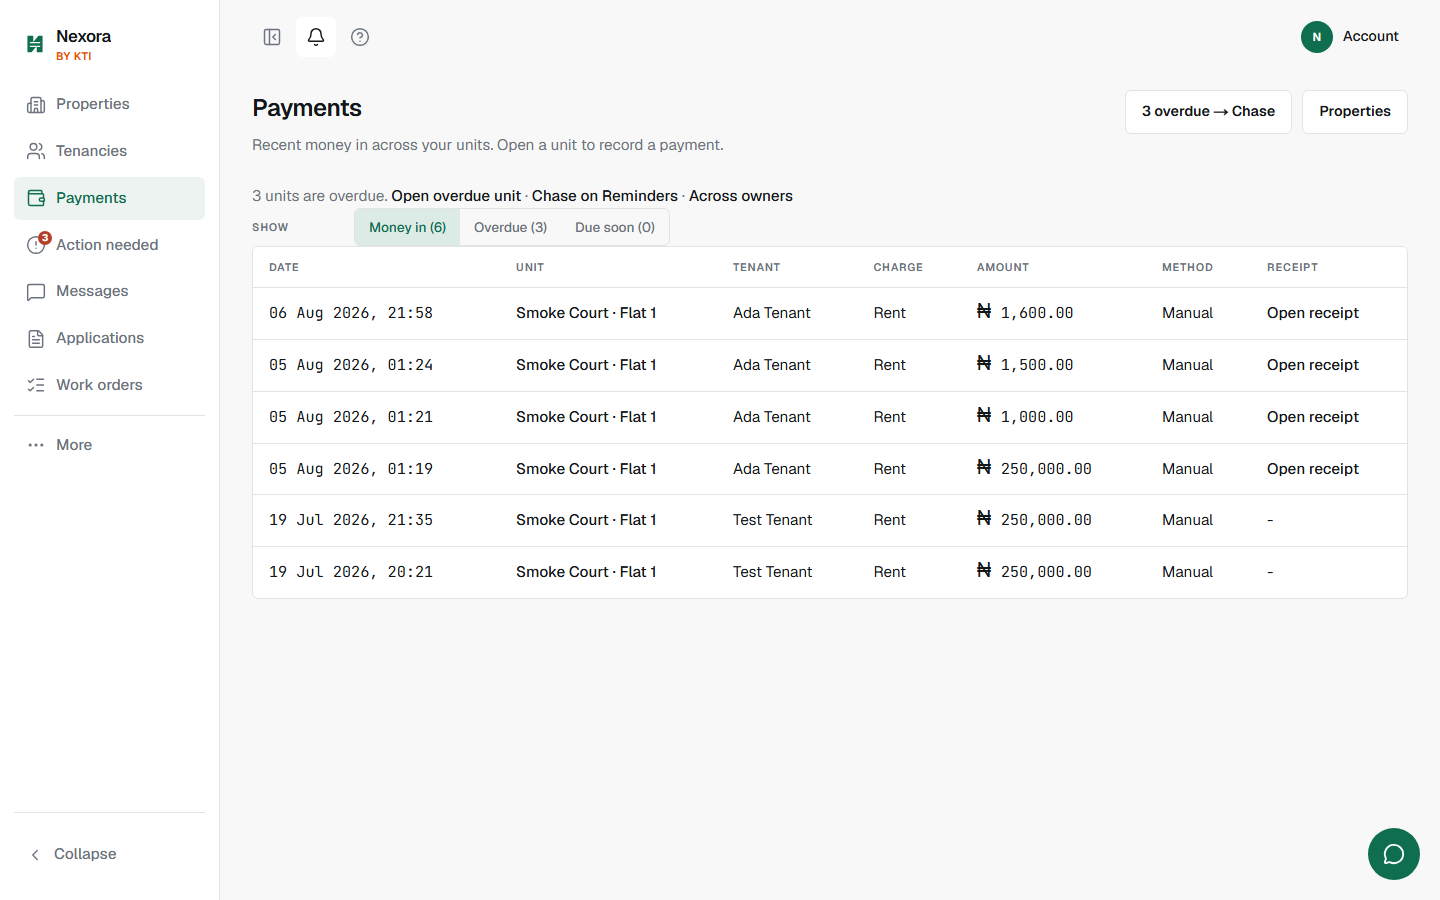
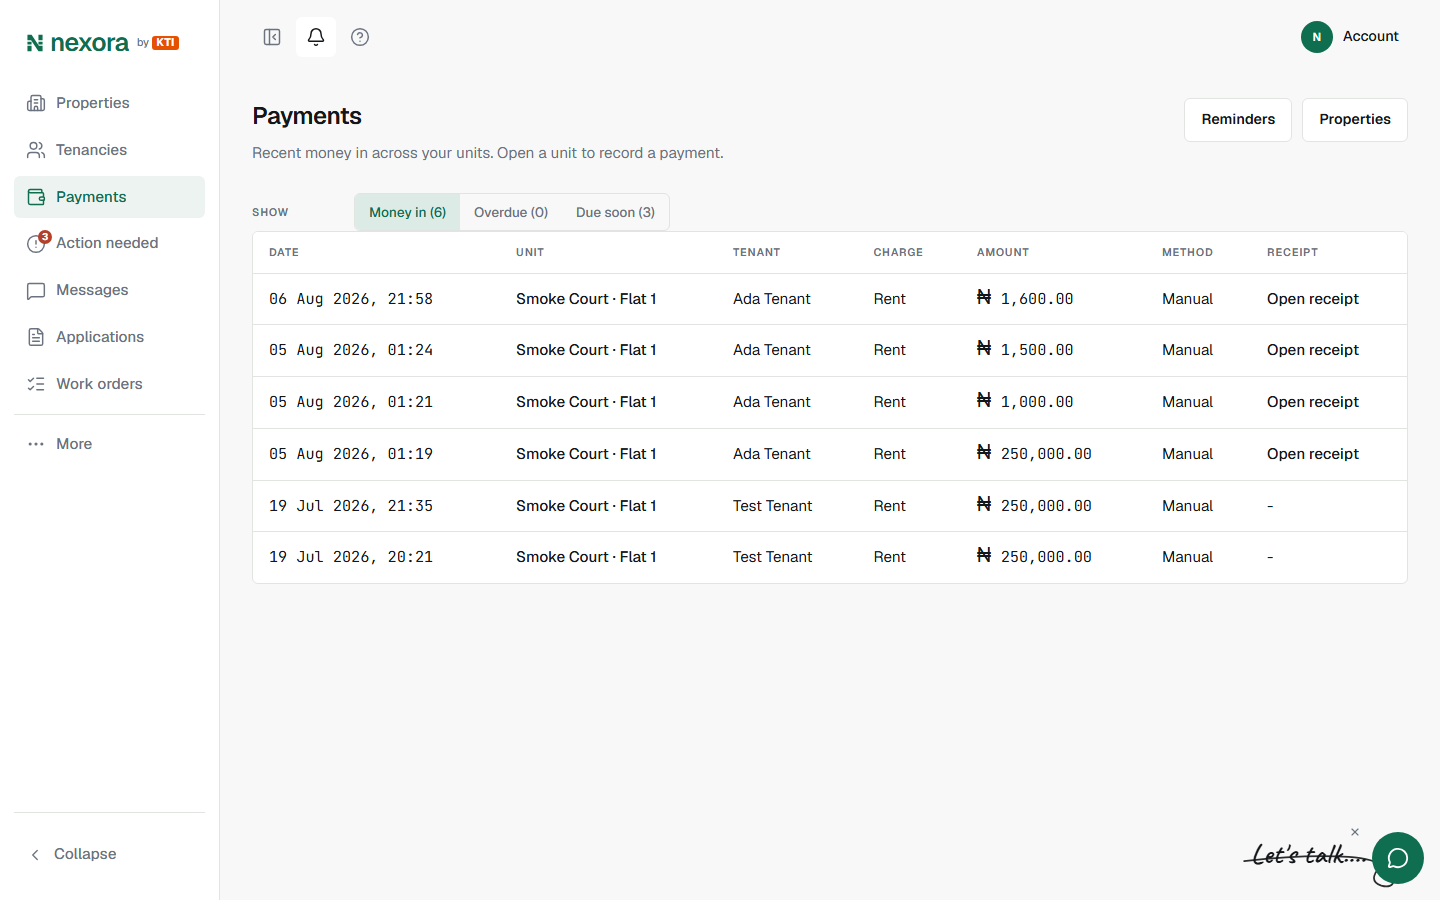
Stop table loading skeletons from pushing phones sideways; log the Friday-path dry run.
A .sr-only label inside the skeleton table escaped .data-table-wrap (not positioned) and widened the page 217px at 393px. The wrapper is now position: relative so absolutely positioned cells stay inside the scroller. Smoke doc updated for the property-first Properties page; release-proof 13/13 and a 393px Friday walk 18/18 recorded; headed tick still pending.

diff --git a/web/app/globals.css b/web/app/globals.css
@@ -3173,6 +3173,8 @@ a.property-group-name:focus-visible {
 }
 
 .data-table-wrap {
+  /* Contain absolutely positioned cells (e.g. .sr-only) inside the scroller. */
+  position: relative;
   width: 100%;
   max-width: 100%;
   min-width: 0;

diff --git a/docs/landlord-ada-loop-smoke.md b/docs/landlord-ada-loop-smoke.md
@@ -22,10 +22,10 @@ Covers Nexora slices shipped while waiting on TenantCloud landlord login
 _Agent Playwright 2026-09-15 → redirected to `/login` (no landlord cookie). Live ticks below stay for your browser session._
 
 ### Properties
-1. `/properties` — Occupancy All/Occupied/Vacant + Payment All/Overdue/Due soon/Paid/Pending stack  
+1. `/properties` — header `{n} properties · {m} units` + one **Add property**; Occupancy All/Occupied/Vacant (unit counts) above a quieter Payment All/Overdue/Due soon/Paid/Pending; units grouped under each property with **Add unit** (primary) and Edit property (quiet)  
 2. Vacant unit row → **Start tenancy** → dossier  
 3. Overdue occupied → Record payment / Remind  
-4. Header `{n} overdue → Chase` → `/reminders?filter=overdue` (count from Action needed summary, not first units page); if failed sends → Retry link → `/reminders?filter=failed`  
+4. Alert strip `{n} units overdue` → **Chase on Action needed** → `/reminders?filter=overdue` (count from Action needed summary, not first units page); if failed sends → **Retry on Action needed** → `/reminders?filter=failed`  
 5. `/properties?occupancy=vacant` opens with Vacant pressed  
 
 ### Payments
@@ -79,6 +79,8 @@ python -m pytest tests/test_unit_status_aggregate.py tests/test_portfolio_money_
 **2026-09-15 proceed retry:** pytest **10 passed**; `:8000` up; gstack browse + `cookie-import-browser chrome --domain localhost` → **DPAPI decryption failed** (Windows cannot decrypt Chrome cookies for the agent). Still `/properties` → `/login`. Unblock: your headed walk, or Chrome launched with `--remote-debugging-port=9222` while signed in.
 
 **2026-09-26 agent gate:** Ada + Phase 5 related pytest → **22 passed**. Paystack / cards confirmed. **Headed Friday chase still yours** (no landlord cookie for the agent).
+
+**2026-10-02 agent dry run (local, smoke landlord, admin-minted session):** `scripts/qa-release-proof.mjs` at 1440 → **13/13**. Extra 393px walk of the property-first Properties page → **18/18**: filters, Record payment → unit "Amount due this cycle", Remind, group Add unit / Edit property forms, `?occupancy=vacant`, alert → Action needed overdue/failed, bell → `/reminders?filter=…` (panel on screen), Start tenancy → dossier, Payments + Tenancies ending soon, no console errors. Vacant and overdue states were response-stubbed in the browser (fixture has neither) — routing only. Found + fixed: table loading skeletons pushed phones 217px sideways (`.sr-only` escaping `.data-table-wrap`; wrapper now `position: relative`). **Headed live tick still yours.**
 
 **Unblock headed (copy-paste):**  
 1. Sign in as landlord on local or https://smart-prop-web.vercel.app  
